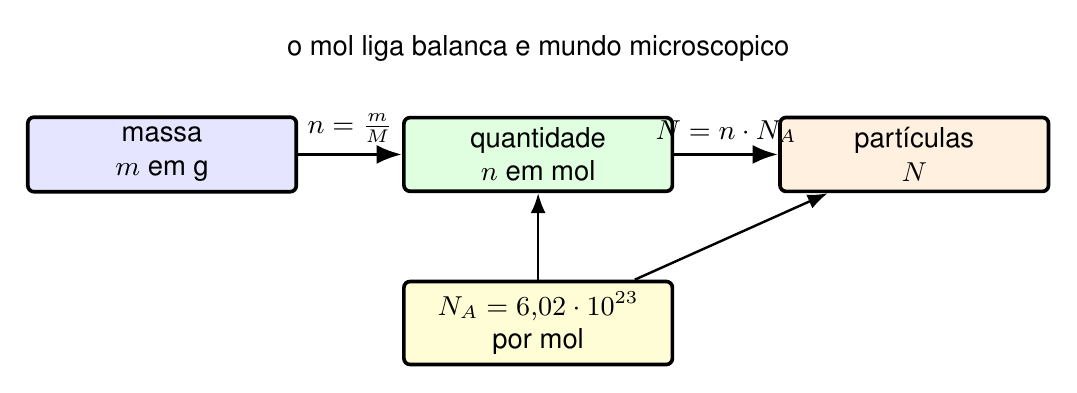
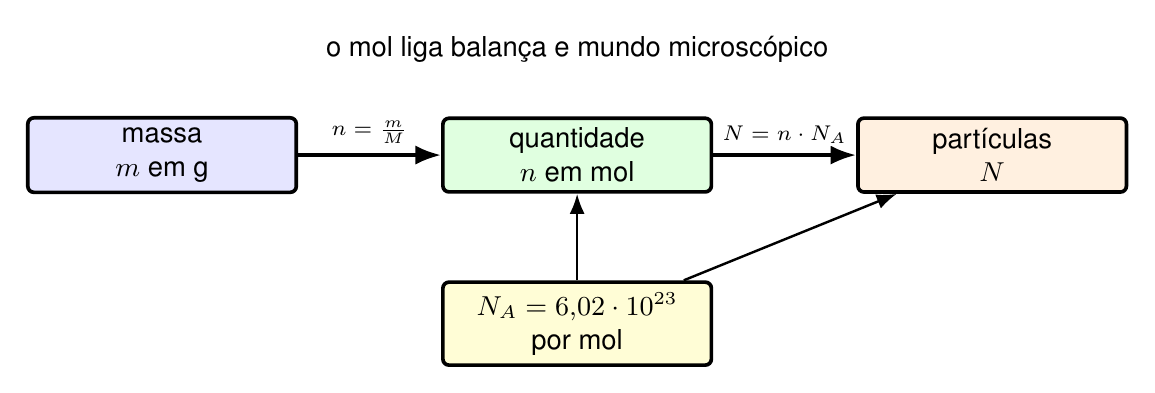
Corrige acentuacao em TikZ de Quimica

diff --git a/Quimica/3serie/unidade-4-funcoes-nitrogenadas-e-mistas/figuras_cap02_amidas.tex b/Quimica/3serie/unidade-4-funcoes-nitrogenadas-e-mistas/figuras_cap02_amidas.tex
@@ -11,22 +11,24 @@
 \begin{tikzpicture}[>=Latex,node distance=0.8cm]
   \tikzstyle{box}=[draw,rounded corners=2pt,very thick,minimum width=3.2cm,minimum height=0.85cm,align=center]
   \node[box,fill=blue!10] (amina) {amina\\$R-NH_2$};
-  \node[box,fill=orange!12,right=1cm of amina] (amida) {amida\\$R-CO-NH_2$};
-  \draw[very thick,->] (amina) -- (amida) node[midway,above] {entra carbonila};
-  \node[box,fill=green!12,below=1cm of amida] (pep) {ligacao peptidica\\amida biologica};
+  \node[box,fill=orange!12,right=1.35cm of amina] (amida) {amida\\$R-CO-NH_2$};
+  \draw[very thick,->] (amina) -- (amida);
+  \node[fill=white,inner sep=1pt,font=\sffamily\scriptsize]
+    at ($(amina.east)!0.5!(amida.west)+(0,0.68)$) {entra carbonila};
+  \node[box,fill=green!12,below=1cm of amida] (pep) {ligação peptídica\\amida biológica};
   \draw[very thick,->] (amida) -- (pep);
   \node[box,fill=gray!10,below=1cm of amina] (crit) {reconhecer\\$C=O$ ligado ao $N$};
   \draw[thick,->] (crit) -- (amida);
-  \node[align=center,below=0.45cm of pep] {nem toda molécula com N e amida};
+  \node[align=center,below=0.45cm of pep] {nem toda molécula com N é amida};
 \end{tikzpicture}
 
 \begin{tikzpicture}[>=Latex,node distance=0.8cm]
   \tikzstyle{box}=[draw,rounded corners=2pt,very thick,minimum width=2.8cm,minimum height=0.9cm,align=center]
-  \node[box,fill=blue!10] (aa1) {$H_2N-CH(R)-COOH$\\aminoacido 1};
-  \node[box,fill=blue!10,right=0.8cm of aa1] (aa2) {$H_2N-CH(R')-COOH$\\aminoacido 2};
-  \node[box,fill=green!12,below=1.0cm of $(aa1)!0.5!(aa2)$] (pep) {$-CO-NH-$\\ligacao peptidica};
+  \node[box,fill=blue!10] (aa1) {$H_2N-CH(R)-COOH$\\aminoácido 1};
+  \node[box,fill=blue!10,right=0.8cm of aa1] (aa2) {$H_2N-CH(R')-COOH$\\aminoácido 2};
+  \node[box,fill=green!12,below=1.0cm of $(aa1)!0.5!(aa2)$] (pep) {$-CO-NH-$\\ligação peptídica};
   \draw[->,thick] (aa1.south east) -- (pep.north west);
   \draw[->,thick] (aa2.south west) -- (pep.north east);
-  \node[draw,rounded corners=2pt,fill=orange!12,right=0.8cm of pep] {libera\\$H_2O$};
+  \node[draw,rounded corners=2pt,fill=orange!12,align=center,minimum width=1.25cm,right=0.8cm of pep] {libera\\$H_2O$};
 \end{tikzpicture}
 \end{document}

diff --git a/Quimica/1serie/unidade-4-grandezas-quimicas-fundamentais/figuras_cap01_massa-atomica-e-molecular.tex b/Quimica/1serie/unidade-4-grandezas-quimicas-fundamentais/figuras_cap01_massa-atomica-e-molecular.tex
@@ -10,9 +10,9 @@
 \tikzset{every node/.append style={font=\sffamily\small}}
 \begin{tikzpicture}[>=Latex,node distance=0.8cm]
   \tikzstyle{box}=[draw,rounded corners=2pt,very thick,minimum width=3cm,minimum height=0.85cm,align=center]
-  \node[box,fill=gray!12] (c) {carbono-12\\referencia};
+  \node[box,fill=gray!12] (c) {carbono-12\\referência};
   \node[box,fill=blue!10,right=1cm of c] (u) {$1u$\\escala atômica};
-  \node[box,fill=green!12,right=1cm of u] (tab) {tabela periodica\\massas medias};
+  \node[box,fill=green!12,right=1cm of u] (tab) {tabela periódica\\massas médias};
   \draw[very thick,->] (c) -- (u);
   \draw[very thick,->] (u) -- (tab);
   \node[box,fill=orange!12,below=1cm of u] (mol) {massa molecular\\soma dos átomos};
@@ -20,16 +20,16 @@
   \node[draw,rounded corners=2pt,fill=yellow!16,align=center,below=0.65cm of mol] (ex)
     {$H_2O$\\$2\cdot1 + 16 = 18u$};
   \draw[thick,->] (mol) -- (ex);
-  \node[align=center,above=0.35cm of u] {da escala invisivel para calculos comparaveis};
+  \node[align=center,above=0.35cm of u] {da escala invisível para cálculos comparáveis};
 \end{tikzpicture}
 
-\begin{tikzpicture}[>=Latex,node distance=0.9cm]
+\begin{tikzpicture}[>=Latex,x=1cm,y=1cm]
   \tikzstyle{box}=[draw,rounded corners=2pt,very thick,minimum width=2.7cm,minimum height=0.85cm,align=center]
-  \node[box,fill=blue!10] (cl35) {$^{35}$Cl\\75\%};
-  \node[box,fill=orange!12,right=0.8cm of cl35] (cl37) {$^{37}$Cl\\25\%};
-  \node[box,fill=green!12,right=0.8cm of cl37] (média) {média\\$35{,}5u$};
-  \draw[->,thick] (cl35) -- (média);
-  \draw[->,thick] (cl37) -- (média);
-  \node[align=center,below=0.55cm of cl37] {isotopo mais abundante pesa mais\\na média ponderada};
+  \node[box,fill=blue!10] (cl35) at (0,0.55) {$^{35}$Cl\\75\%};
+  \node[box,fill=orange!12] (cl37) at (0,-0.55) {$^{37}$Cl\\25\%};
+  \node[box,fill=green!12] (média) at (4.0,0) {média\\$35{,}5u$};
+  \draw[->,thick] (cl35.east) -- (média.west);
+  \draw[->,thick] (cl37.east) -- (média.west);
+  \node[align=center] at (2.0,-1.45) {isótopo mais abundante pesa mais\\na média ponderada};
 \end{tikzpicture}
 \end{document}

diff --git a/Quimica/3serie/unidade-4-funcoes-nitrogenadas-e-mistas/figuras_cap01_aminas.tex b/Quimica/3serie/unidade-4-funcoes-nitrogenadas-e-mistas/figuras_cap01_aminas.tex
@@ -10,21 +10,21 @@
 \tikzset{every node/.append style={font=\sffamily\small}}
 \begin{tikzpicture}[node distance=0.8cm]
   \tikzstyle{box}=[draw,rounded corners=2pt,very thick,minimum width=3cm,minimum height=0.95cm,align=center]
-  \node[box,fill=blue!10] (a1) {primaria\\$R-NH_2$};
-  \node[box,fill=green!12,right=0.8cm of a1] (a2) {secundaria\\$R-NH-R'$};
-  \node[box,fill=orange!12,right=0.8cm of a2] (a3) {terciaria\\$R-NR'-R''$};
-  \node[draw,rounded corners=2pt,fill=gray!10,align=center,below=1cm of a2] (n) {criterio: numero de grupos organicos ligados ao nitrogenio};
+  \node[box,fill=blue!10] (a1) {primária\\$R-NH_2$};
+  \node[box,fill=green!12,right=0.8cm of a1] (a2) {secundária\\$R-NH-R'$};
+  \node[box,fill=orange!12,right=0.8cm of a2] (a3) {terciária\\$R-NR'-R''$};
+  \node[draw,rounded corners=2pt,fill=gray!10,align=center,below=1cm of a2] (n) {critério: número de grupos orgânicos ligados ao nitrogênio};
   \draw[very thick] (a1) -- (n);
   \draw[very thick] (a2) -- (n);
   \draw[very thick] (a3) -- (n);
-  \node[align=center,above=0.35cm of a2] {aminas derivam da amonia};
+  \node[align=center,above=0.35cm of a2] {aminas derivam da amônia};
 \end{tikzpicture}
 
 \begin{tikzpicture}[node distance=0.9cm]
   \tikzstyle{box}=[draw,rounded corners=2pt,very thick,minimum width=3.1cm,minimum height=1.0cm,align=center]
-  \node[box,fill=green!12] (alif) {$R-NH_2$\\par livre disponivel};
+  \node[box,fill=green!12] (alif) {$R-NH_2$\\par livre disponível};
   \node[box,fill=orange!15,right=1.1cm of alif] (anil) {$C_6H_5-NH_2$\\par interage com anel};
   \draw[->,thick] (alif) -- node[above,align=center] {basicidade\\muda} (anil);
-  \node[align=center,below=0.65cm of anil] {não basta ter N: a vizinhanca\\eletronica altera a propriedade};
+  \node[align=center,below=0.65cm of anil] {não basta ter N: a vizinhança\\eletrônica altera a propriedade};
 \end{tikzpicture}
 \end{document}

diff --git a/Quimica/1serie/unidade-4-grandezas-quimicas-fundamentais/figuras_cap02_quantidade-de-materia.tex b/Quimica/1serie/unidade-4-grandezas-quimicas-fundamentais/figuras_cap02_quantidade-de-materia.tex
@@ -11,14 +11,14 @@
 \begin{tikzpicture}[>=Latex,node distance=0.9cm]
   \tikzstyle{box}=[draw,rounded corners=2pt,very thick,minimum width=3.1cm,minimum height=0.85cm,align=center]
   \node[box,fill=blue!10] (massa) {massa\\$m$ em g};
-  \node[box,fill=green!12,right=1.2cm of massa] (mol) {quantidade\\$n$ em mol};
-  \node[box,fill=orange!12,right=1.2cm of mol] (part) {partículas\\$N$};
-  \draw[very thick,->] (massa) -- (mol) node[midway,above] {$n=\frac{m}{M}$};
-  \draw[very thick,->] (mol) -- (part) node[midway,above] {$N=n\cdot N_A$};
+  \node[box,fill=green!12,right=1.65cm of massa] (mol) {quantidade\\$n$ em mol};
+  \node[box,fill=orange!12,right=1.65cm of mol] (part) {partículas\\$N$};
+  \draw[very thick,->] (massa) -- (mol) node[midway,above=0.08cm,fill=white,inner sep=1pt,font=\sffamily\scriptsize] {$n=\frac{m}{M}$};
+  \draw[very thick,->] (mol) -- (part) node[midway,above=0.08cm,fill=white,inner sep=1pt,font=\sffamily\scriptsize] {$N=n\cdot N_A$};
   \node[box,fill=yellow!16,below=1.0cm of mol] (na) {$N_A=6{,}02\cdot10^{23}$\\por mol};
   \draw[thick,->] (na) -- (mol);
   \draw[thick,->] (na) -- (part);
-  \node[align=center,above=0.5cm of mol] {o mol liga balanca e mundo microscopico};
+  \node[align=center,above=0.5cm of mol] {o mol liga balança e mundo microscópico};
 \end{tikzpicture}
 
 \begin{tikzpicture}[>=Latex,node distance=1.0cm]

diff --git a/Quimica/3serie/unidade-4-funcoes-nitrogenadas-e-mistas/figuras_cap03_outras-funcoes.tex b/Quimica/3serie/unidade-4-funcoes-nitrogenadas-e-mistas/figuras_cap03_outras-funcoes.tex
@@ -14,7 +14,7 @@
   \node[box,fill=red!10,right=0.65cm of hal] (nitro) {nitro\\$R-NO_2$};
   \node[box,fill=yellow!18,right=0.65cm of nitro] (tiol) {tiol\\$R-SH$};
   \node[box,fill=green!12,below=0.8cm of nitro] (mista) {função mista\\mais de um grupo};
-  \node[box,fill=orange!12,below=0.8cm of mista] (amino) {aminoacido\\$-NH_2$ + $-COOH$};
+  \node[box,fill=orange!12,below=0.8cm of mista] (amino) {aminoácido\\$-NH_2$ + $-COOH$};
   \draw[very thick] (hal) -- (mista);
   \draw[very thick] (nitro) -- (mista);
   \draw[very thick] (tiol) -- (mista);
@@ -26,7 +26,7 @@
   \tikzstyle{tag}=[draw,rounded corners=2pt,very thick,fill=gray!10,align=center]
   \node[font=\large] (mol) {$H_2N-CH(R)-COOH$};
   \node[tag,fill=blue!10,above left=0.7cm and 0.15cm of mol] (amino) {grupo amino\\amina};
-  \node[tag,fill=green!12,above right=0.7cm and 0.15cm of mol] (carb) {grupo carboxila\\acido carboxilico};
+  \node[tag,fill=green!12,above right=0.7cm and 0.15cm of mol] (carb) {grupo carboxila\\ácido carboxílico};
   \draw[->,thick] (amino) -- (-1.25,0.15);
   \draw[->,thick] (carb) -- (1.35,0.15);
   \node[align=center,below=0.65cm of mol] {uma mesma molécula pode reunir\\mais de uma função orgânica};

diff --git a/Quimica/9ano/unidade-4-velocidade-e-combustao/figuras_cap02_reacoes-de-combustao.tex b/Quimica/9ano/unidade-4-velocidade-e-combustao/figuras_cap02_reacoes-de-combustao.tex
@@ -10,14 +10,14 @@
 \tikzset{every node/.append style={font=\sffamily\small}}
 \begin{tikzpicture}[>=Latex,node distance=0.7cm]
   \tikzstyle{box}=[draw,rounded corners=2pt,very thick,minimum width=2.8cm,minimum height=0.8cm,align=center]
-  \node[box,fill=yellow!20] (comb) {combustivel};
+  \node[box,fill=yellow!20] (comb) {combustível};
   \node[box,fill=blue!10,right=0.7cm of comb] (ox) {comburente\\$O_2$};
   \node[box,fill=red!12,right=0.7cm of ox] (calor) {calor};
   \draw[very thick,->] (comb) -- (ox);
   \draw[very thick,->] (ox) -- (calor);
   \node[draw,regular polygon,regular polygon sides=3,minimum size=2.5cm,very thick,fill=orange!12,below=1.1cm of ox] (tri) {};
   \node at (tri.corner 1) [above] {calor};
-  \node at (tri.corner 2) [below left] {combustivel};
+  \node at (tri.corner 2) [below left] {combustível};
   \node at (tri.corner 3) [below right] {$O_2$};
   \node[box,fill=green!10,left=1.1cm of tri] (comp) {completa\\$CO_2 + H_2O$\\chama azul};
   \node[box,fill=gray!15,right=1.1cm of tri] (incomp) {incompleta\\$CO + fuligem$\\chama amarela};

diff --git a/_tools/PLANEJAMENTO_REVISAO_ACENTUACAO_TIKZ_POR_DISCIPLINA.md b/_tools/PLANEJAMENTO_REVISAO_ACENTUACAO_TIKZ_POR_DISCIPLINA.md
@@ -1,0 +1,205 @@
+# Revisao de Acentuacao em Imagens TikZ por Disciplina
+
+## Objetivo
+
+Conferir e corrigir erros de acentuacao grafica nos textos das imagens TikZ ativas, executando uma disciplina por vez. Cada disciplina deve ser revisada, renderizada, validada visualmente, commitada e enviada antes de iniciar a proxima.
+
+## Escopo Atual
+
+Fontes TikZ ativas encontradas fora de `_legado/`:
+
+| Ordem | Disciplina | Fontes `.tex` | Status |
+|---:|---|---:|---|
+| 1 | Quimica | 11 | Concluido |
+| 2 | Biologia | 14 | Pendente |
+| 3 | Fisica | 16 | Pendente |
+| 4 | Geometria | 20 | Pendente |
+|  | **Total** | **61** |  |
+
+## Regra de Execucao
+
+Nao revisar mais de uma disciplina no mesmo lote. Ao finalizar uma disciplina, fazer:
+
+1. renderizacao dos PNGs da disciplina;
+2. revisao visual dos PNGs alterados;
+3. auditoria de acentuacao;
+4. `git diff --check`;
+5. commit;
+6. push;
+7. somente entao iniciar a disciplina seguinte.
+
+## Checklist Geral por Disciplina
+
+- [ ] Listar todos os `figuras_cap*.tex` da disciplina.
+- [ ] Procurar palavras sem acento nos textos dos nos TikZ.
+- [ ] Corrigir somente textos/rótulos com problema de acentuacao ou leitura.
+- [ ] Se houver texto sobreposto, ajustar layout no mesmo lote.
+- [ ] Renderizar novamente os PNGs correspondentes.
+- [ ] Abrir os PNGs alterados e conferir visualmente.
+- [ ] Validar que os capitulos `.md` continuam apontando para os PNGs corretos.
+- [ ] Rodar `python3 _tools/auditar_tikz_didatico.py`.
+- [ ] Rodar `git diff --check`.
+- [ ] Conferir `git diff --stat`.
+- [ ] Commitar apenas os arquivos da disciplina.
+- [ ] Fazer push.
+
+## Lote 1 - Quimica
+
+Arquivos:
+
+- `Quimica/1serie/unidade-4-grandezas-quimicas-fundamentais/figuras_cap01_massa-atomica-e-molecular.tex`
+- `Quimica/1serie/unidade-4-grandezas-quimicas-fundamentais/figuras_cap02_quantidade-de-materia.tex`
+- `Quimica/2serie/unidade-4-cinetica-quimica/figuras_cap01_velocidade-das-reacoes.tex`
+- `Quimica/2serie/unidade-4-cinetica-quimica/figuras_cap02_fatores-que-afetam-a-velocidade.tex`
+- `Quimica/2serie/unidade-4-cinetica-quimica/figuras_cap03_teoria-das-colisoes.tex`
+- `Quimica/2serie/unidade-4-cinetica-quimica/figuras_cap04_lei-de-velocidade-e-catalise.tex`
+- `Quimica/3serie/unidade-4-funcoes-nitrogenadas-e-mistas/figuras_cap01_aminas.tex`
+- `Quimica/3serie/unidade-4-funcoes-nitrogenadas-e-mistas/figuras_cap02_amidas.tex`
+- `Quimica/3serie/unidade-4-funcoes-nitrogenadas-e-mistas/figuras_cap03_outras-funcoes.tex`
+- `Quimica/9ano/unidade-4-velocidade-e-combustao/figuras_cap01_velocidade-das-reacoes.tex`
+- `Quimica/9ano/unidade-4-velocidade-e-combustao/figuras_cap02_reacoes-de-combustao.tex`
+
+Comandos do lote:
+
+```bash
+rg -n "ativacao|colisao|concentracao|direcao|distancia|eficacia|facil|frequencia|moleculas|nao|orientacao|particulas|posicao|reacao|superficie" Quimica
+python3 _tools/renderizar_tikz_exatas.py
+python3 _tools/auditar_tikz_didatico.py
+git diff --check -- Quimica
+git diff --stat -- Quimica
+```
+
+Commit sugerido:
+
+```bash
+git commit -m "Corrige acentuacao em TikZ de Quimica"
+```
+
+## Lote 2 - Biologia
+
+Arquivos:
+
+- `Biologia/1serie/unidade-4-bioquimica-celular-ii/figuras_cap01_proteinas-estrutura-e-funcao.tex`
+- `Biologia/1serie/unidade-4-bioquimica-celular-ii/figuras_cap02_enzimas-catalisadores-biologicos.tex`
+- `Biologia/1serie/unidade-4-bioquimica-celular-ii/figuras_cap03_origem-da-vida-na-terra.tex`
+- `Biologia/1serie/unidade-4-bioquimica-celular-ii/figuras_cap04_teorias-historicas-sobre-origem-da-vida.tex`
+- `Biologia/2serie/unidade-4-genetica-mendeliana/figuras_cap01_conceitos-fundamentais.tex`
+- `Biologia/2serie/unidade-4-genetica-mendeliana/figuras_cap02_primeira-lei-de-mendel.tex`
+- `Biologia/2serie/unidade-4-genetica-mendeliana/figuras_cap03_segunda-lei-de-mendel.tex`
+- `Biologia/3serie/unidade-4-genetica-molecular-avancada/figuras_cap01_regulacao-da-expressao-genica.tex`
+- `Biologia/3serie/unidade-4-genetica-molecular-avancada/figuras_cap02_epigenetica.tex`
+- `Biologia/3serie/unidade-4-genetica-molecular-avancada/figuras_cap03_mutacoes-e-variabilidade.tex`
+- `Biologia/3serie/unidade-4-genetica-molecular-avancada/figuras_cap04_biotecnologia-basica.tex`
+- `Biologia/9ano/unidade-4-genetica-aplicada/figuras_cap01_segunda-lei-de-mendel.tex`
+- `Biologia/9ano/unidade-4-genetica-aplicada/figuras_cap02_heredogramas-e-genetica-humana.tex`
+- `Biologia/9ano/unidade-4-genetica-aplicada/figuras_cap03_mutacoes.tex`
+
+Comandos do lote:
+
+```bash
+rg -n "ativacao|colisao|concentracao|direcao|distancia|eficacia|facil|frequencia|moleculas|nao|orientacao|particulas|posicao|reacao|superficie|regulacao|expressao|mutacoes|genetica|heranca" Biologia
+python3 _tools/renderizar_tikz_biologia.py
+python3 _tools/auditar_tikz_didatico.py
+git diff --check -- Biologia
+git diff --stat -- Biologia
+```
+
+Commit sugerido:
+
+```bash
+git commit -m "Corrige acentuacao em TikZ de Biologia"
+```
+
+## Lote 3 - Fisica
+
+Arquivos:
+
+- `Fisica/1serie/unidade-4-cinematica-vetorial/figuras_cap07_movimentos-compostos.tex`
+- `Fisica/2serie/unidade-4-termodinamica/figuras_cap07_leis-da-termodinamica.tex`
+- `Fisica/2serie/unidade-4-termodinamica/figuras_cap08_maquinas-termicas.tex`
+- `Fisica/3serie/unidade-4-geradores-e-circuitos/figuras_cap07_geradores-e-receptores.tex`
+- `Fisica/3serie/unidade-4-geradores-e-circuitos/figuras_cap08_medidas-eletricas.tex`
+- `Fisica/6ano/unidade-4-velocidade/figuras_cap01_conceito-de-velocidade.tex`
+- `Fisica/6ano/unidade-4-velocidade/figuras_cap02_unidades-de-velocidade.tex`
+- `Fisica/7ano/unidade-4-calor-e-transferencia-de-calor/figuras_cap01_calor-e-equilibrio-termico.tex`
+- `Fisica/7ano/unidade-4-calor-e-transferencia-de-calor/figuras_cap02_formas-de-transferencia-de-calor.tex`
+- `Fisica/7ano/unidade-4-calor-e-transferencia-de-calor/figuras_cap03_mudancas-de-estado-fisico.tex`
+- `Fisica/8ano/unidade-4-fontes-e-sustentabilidade/figuras_cap01_fontes-de-energia.tex`
+- `Fisica/8ano/unidade-4-fontes-e-sustentabilidade/figuras_cap02_usinas-de-geracao-de-energia.tex`
+- `Fisica/8ano/unidade-4-fontes-e-sustentabilidade/figuras_cap03_uso-consciente-de-energia.tex`
+- `Fisica/9ano/unidade-4-gravitacao-universal/figuras_cap01_lei-da-gravitacao-universal.tex`
+- `Fisica/9ano/unidade-4-gravitacao-universal/figuras_cap02_sistema-solar-leis-de-kepler-e-vida-no-universo.tex`
+- `Fisica/9ano/unidade-4-gravitacao-universal/figuras_cap03_ciclo-evolutivo-do-sol.tex`
+
+Comandos do lote:
+
+```bash
+rg -n "direcao|distancia|frequencia|posicao|nao|maquina|termica|eletrica|gravitacao|velocidade|energia|consciente|evolutivo" Fisica
+python3 _tools/renderizar_tikz_exatas.py
+python3 _tools/auditar_tikz_didatico.py
+git diff --check -- Fisica
+git diff --stat -- Fisica
+```
+
+Commit sugerido:
+
+```bash
+git commit -m "Corrige acentuacao em TikZ de Fisica"
+```
+
+## Lote 4 - Geometria
+
+Arquivos:
+
+- `Geometria/1serie/unidade-4-quadrilateros/figuras_cap01_classificacao-e-propriedades-gerais.tex`
+- `Geometria/1serie/unidade-4-quadrilateros/figuras_cap02_paralelogramos-e-trapezios.tex`
+- `Geometria/2serie/unidade-4-piramides/figuras_cap01_elementos-e-classificacao.tex`
+- `Geometria/2serie/unidade-4-piramides/figuras_cap02_areas-volumes-e-tronco-de-piramide.tex`
+- `Geometria/6ano/unidade-4-triangulos-e-sistema-de-medidas-ii/figuras_cap01_elementos-dos-triangulos.tex`
+- `Geometria/6ano/unidade-4-triangulos-e-sistema-de-medidas-ii/figuras_cap02_classificacao-dos-triangulos.tex`
+- `Geometria/6ano/unidade-4-triangulos-e-sistema-de-medidas-ii/figuras_cap03_propriedades-dos-triangulos.tex`
+- `Geometria/6ano/unidade-4-triangulos-e-sistema-de-medidas-ii/figuras_cap04_medidas-de-capacidade.tex`
+- `Geometria/6ano/unidade-4-triangulos-e-sistema-de-medidas-ii/figuras_cap05_medidas-de-tempo.tex`
+- `Geometria/7ano/unidade-4-quadrilateros-e-poligonos-regulares/figuras_cap01_classificacao-de-quadrilateros.tex`
+- `Geometria/7ano/unidade-4-quadrilateros-e-poligonos-regulares/figuras_cap02_propriedades-dos-quadrilateros.tex`
+- `Geometria/7ano/unidade-4-quadrilateros-e-poligonos-regulares/figuras_cap03_angulos-internos-de-poligonos-regulares.tex`
+- `Geometria/7ano/unidade-4-quadrilateros-e-poligonos-regulares/figuras_cap04_construcao-de-poligonos-regulares.tex`
+- `Geometria/8ano/unidade-4-poligonos-e-construcao-de-poligonos-regulares/figuras_cap01_poligonos-angulos.tex`
+- `Geometria/8ano/unidade-4-poligonos-e-construcao-de-poligonos-regulares/figuras_cap02_poligonos-regulares.tex`
+- `Geometria/8ano/unidade-4-poligonos-e-construcao-de-poligonos-regulares/figuras_cap03_construcao-de-poligonos-regulares.tex`
+- `Geometria/9ano/unidade-4-poligonos-e-construcoes-geometricas/figuras_cap01_poligonos-regulares.tex`
+- `Geometria/9ano/unidade-4-poligonos-e-construcoes-geometricas/figuras_cap02_construcao-de-poligonos-regulares.tex`
+- `Geometria/9ano/unidade-4-poligonos-e-construcoes-geometricas/figuras_cap03_algoritmos-de-construcao.tex`
+- `Geometria/9ano/unidade-4-poligonos-e-construcoes-geometricas/figuras_cap04_geometria-analitica-basica.tex`
+
+Comandos do lote:
+
+```bash
+rg -n "classificacao|construcao|direcao|distancia|posicao|nao|angulo|angulos|area|areas|geometrica|geometricas|triangulos|quadrilateros|poligonos" Geometria
+python3 _tools/renderizar_tikz_exatas.py
+python3 _tools/auditar_tikz_didatico.py
+git diff --check -- Geometria
+git diff --stat -- Geometria
+```
+
+Commit sugerido:
+
+```bash
+git commit -m "Corrige acentuacao em TikZ de Geometria"
+```
+
+## Observacoes Importantes
+
+- Os scripts de renderizacao atuais renderizam grupos amplos: `_tools/renderizar_tikz_exatas.py` cobre `Geometria`, `Quimica` e `Fisica`; `_tools/renderizar_tikz_biologia.py` cobre `Biologia`.
+- Mesmo que o script renderize mais de uma disciplina, o commit deve incluir apenas a disciplina do lote em andamento.
+- Se o auditor acusar palavra sem acento fora do lote atual, registrar para o lote correspondente e nao corrigir junto.
+- Se uma imagem tiver acentos corretos no `.tex`, mas o PNG renderizar caracteres errados, revisar o preambulo do arquivo: `\usepackage[utf8]{inputenc}`, `\usepackage[T1]{fontenc}`, `\usepackage{helvet}` e `\renewcommand{\familydefault}{\sfdefault}`.
+- Se o problema for texto embolado, resolver no mesmo lote, mas manter o foco em leitura e acentuacao.
+
+## Registro de Execucao
+
+- Quimica: revisada, corrigida, renderizada e validada neste lote.
+
+## Proximo Passo
+
+Iniciar o **Lote 2 - Biologia** depois do commit e push do lote de Quimica.
